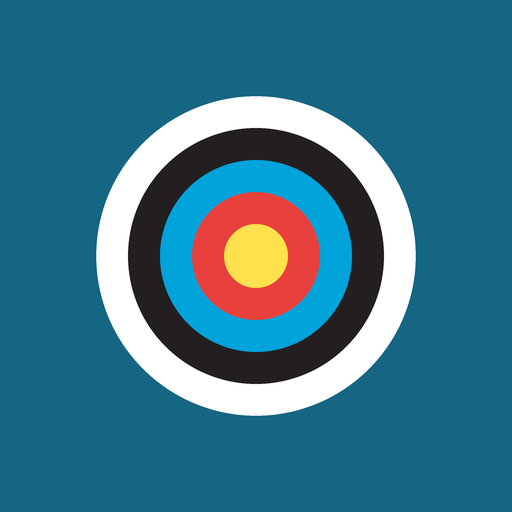
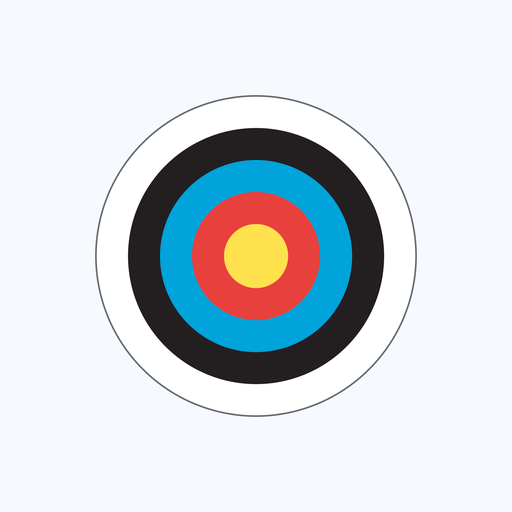
La animación de entrada arranca desde la pantalla de inicio de Android
icono-512-mask pierde el cuadrado azul petróleo: queda la diana a color
sobre el fondo de la pantalla de inicio (#f6fafe), con el mismo borde fino
de la animación. La animación empieza idéntica a esa pantalla (diana a
color, más pequeña y más arriba, medido en el teléfono del usuario), se
queda quieta mientras Android la desvanece, se acerca y pasa a gris antes
de las tres flechas.

diff --git a/src/componentes/Entrada.svelte b/src/componentes/Entrada.svelte
@@ -1,6 +1,8 @@
 <script lang="ts">
-  // Animación de entrada: dos flechas fallan el centro de una diana gris, la tercera acierta
-  // y los colores se expanden anillo por anillo hacia afuera. Solo al abrir la app; un toque la salta.
+  // Animación de entrada: arranca idéntica a la pantalla de inicio que dibuja Android con
+  // icono-512-mask (diana a color, pequeña y más arriba), se acerca y pasa a gris; dos flechas
+  // fallan el centro, la tercera acierta y los colores se expanden anillo por anillo hacia afuera.
+  // Solo al abrir la app; un toque la salta.
   let visible = $state(!matchMedia('(prefers-reduced-motion: reduce)').matches);
 
   // Del centro hacia afuera: el oro aparece primero
@@ -13,16 +15,25 @@
   ];
   const DE_AFUERA_A_ADENTRO = [...ANILLOS].reverse();
 
-  // Tiempos en ms. Cada flecha cae más cerca: azul, rojo y oro.
+  // Posición de la diana en la pantalla de inicio, medida en el teléfono del usuario
+  // (grabación del 2026-10-03): escala y desplazamiento vertical en unidades del SVG.
+  const ESCALA_INICIAL = 0.477;
+  const DESPLAZAMIENTO_INICIAL = -71;
+
+  // Tiempos en ms. Primero se queda quieta mientras Android desvanece su pantalla,
+  // luego se acerca. Cada flecha cae más cerca: azul, rojo y oro.
+  const MANTENER = 250;
+  const ACERCAR = 450;
+  const INICIO = MANTENER + ACERCAR;
   const VUELO = 380;
   const FLECHAS = [
-    { x: 330, y: 190, angulo: 33, impacto: 480 },
-    { x: 204, y: 283, angulo: 57, impacto: 1000 },
-    { x: 256, y: 256, angulo: 48, impacto: 1520 },
+    { x: 330, y: 190, angulo: 33, impacto: INICIO + 380 },
+    { x: 204, y: 283, angulo: 57, impacto: INICIO + 900 },
+    { x: 256, y: 256, angulo: 48, impacto: INICIO + 1420 },
   ];
   const ACIERTO = FLECHAS[FLECHAS.length - 1].impacto;
   const PASO_COLOR = 90;
-  const SALIDA = 2450;
+  const SALIDA = INICIO + 2350;
 
   function terminar() {
     visible = false;
@@ -45,24 +56,35 @@
     class="entrada"
     aria-hidden="true"
     style:--salida="{SALIDA}ms"
+    style:--mantener="{MANTENER}ms"
+    style:--acercar="{ACERCAR}ms"
+    style:--escala-inicial={ESCALA_INICIAL}
+    style:--desplazamiento-inicial="{DESPLAZAMIENTO_INICIAL}px"
     onpointerdown={terminar}
     onanimationend={(e) => e.target === e.currentTarget && terminar()}
   >
     <svg viewBox="-40 -40 592 592">
       <!-- Un grupo por flecha para que la diana se sacuda en cada impacto -->
-      <g class="golpe" style:--t="{FLECHAS[0].impacto}ms">
-        <g class="golpe" style:--t="{FLECHAS[1].impacto}ms">
-          <g class="golpe" style:--t="{FLECHAS[2].impacto}ms">
-            {#each DE_AFUERA_A_ADENTRO as a (a.r)}
-              <circle cx="256" cy="256" r={a.r} fill={a.gris} />
-            {/each}
-            {#each DE_AFUERA_A_ADENTRO as a, i (a.r)}
-              <circle
-                cx="256" cy="256" r={a.r} fill={a.color} class="color"
-                style:--t="{ACIERTO + (ANILLOS.length - 1 - i) * PASO_COLOR}ms"
-              />
-            {/each}
-            <circle cx="256" cy="256" r="200" fill="none" class="borde" />
+      <g class="acercar">
+        <g class="golpe" style:--t="{FLECHAS[0].impacto}ms">
+          <g class="golpe" style:--t="{FLECHAS[1].impacto}ms">
+            <g class="golpe" style:--t="{FLECHAS[2].impacto}ms">
+              {#each DE_AFUERA_A_ADENTRO as a (a.r)}
+                <circle cx="256" cy="256" r={a.r} fill={a.gris} />
+              {/each}
+              <g class="inicial">
+                {#each DE_AFUERA_A_ADENTRO as a (a.r)}
+                  <circle cx="256" cy="256" r={a.r} fill={a.color} />
+                {/each}
+              </g>
+              {#each DE_AFUERA_A_ADENTRO as a, i (a.r)}
+                <circle
+                  cx="256" cy="256" r={a.r} fill={a.color} class="color"
+                  style:--t="{ACIERTO + (ANILLOS.length - 1 - i) * PASO_COLOR}ms"
+                />
+              {/each}
+              <circle cx="256" cy="256" r="200" fill="none" class="borde" />
+            </g>
           </g>
         </g>
       </g>
@@ -90,12 +112,19 @@
   svg { width: min(60vw, 260px); overflow: visible; }
   .borde { stroke: var(--md-sys-color-outline-variant); stroke-width: 2; }
 
-  /* Los tiempos (--t, --vuelo, --salida) vienen del script. La flecha es invisible
+  /* Los tiempos (--t, --vuelo, --salida, etc.) vienen del script. La flecha es invisible
      hasta que despega, para que no se vea esperando en pantallas anchas. */
   .flecha { animation: vuelo var(--vuelo) cubic-bezier(.3, 0, .8, .15) var(--t) backwards; }
   .asta { stroke: var(--md-sys-color-on-surface); stroke-width: 7; stroke-linecap: round; }
   .plumas { fill: var(--md-sys-color-primary); }
   .culatin { fill: var(--md-sys-color-on-surface); }
+
+  /* Diana a color en la posición de la pantalla de inicio: se acerca y pasa a gris */
+  .acercar {
+    transform-box: fill-box; transform-origin: center;
+    animation: acercar var(--acercar) cubic-bezier(.2, 0, 0, 1) var(--mantener) backwards;
+  }
+  .inicial { animation: decolorar var(--acercar) ease-in-out var(--mantener) both; }
 
   .golpe { transform-box: fill-box; transform-origin: center; animation: golpe 220ms ease-out var(--t); }
   .impacto {
@@ -111,6 +140,8 @@
     animation: color 380ms cubic-bezier(.2, 0, 0, 1) var(--t) backwards;
   }
 
+  @keyframes acercar { from { transform: translateY(var(--desplazamiento-inicial)) scale(var(--escala-inicial)); } }
+  @keyframes decolorar { to { opacity: 0; } }
   @keyframes vuelo { from { transform: translateX(900px); opacity: 0; } 20% { opacity: 1; } }
   @keyframes golpe { 35% { transform: scale(.96); } }
   @keyframes onda { from { opacity: .5; transform: scale(1); } to { opacity: 0; transform: scale(2.5); } }
